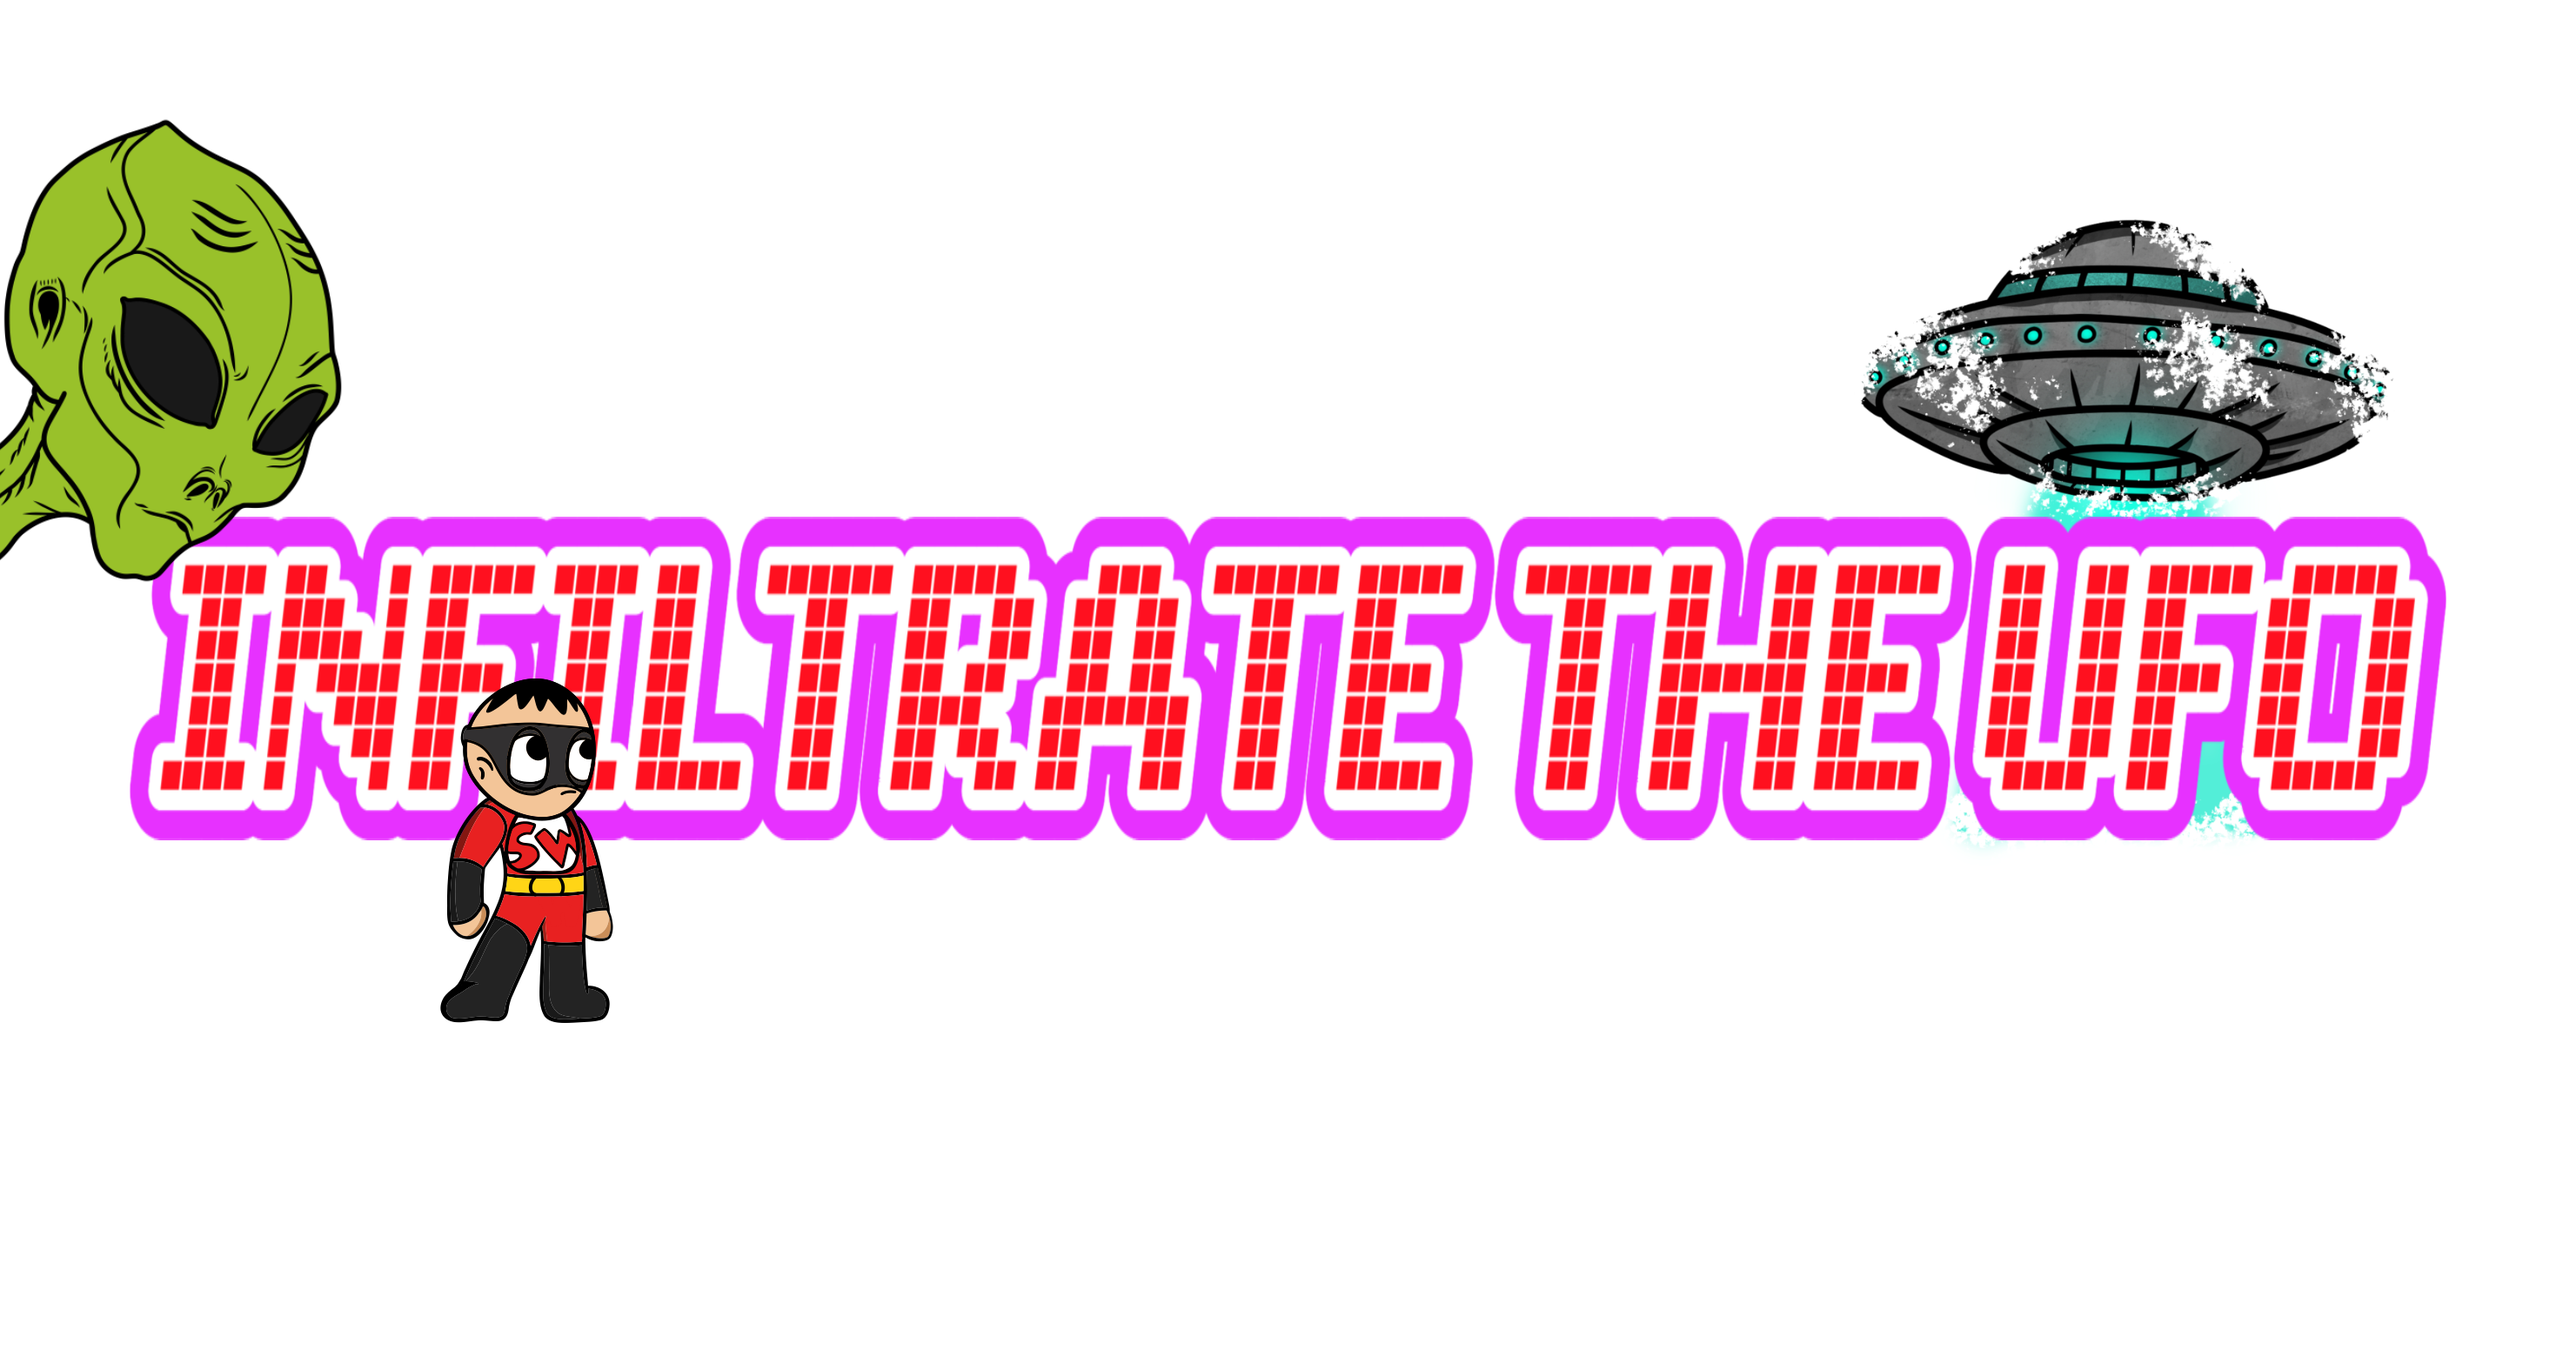
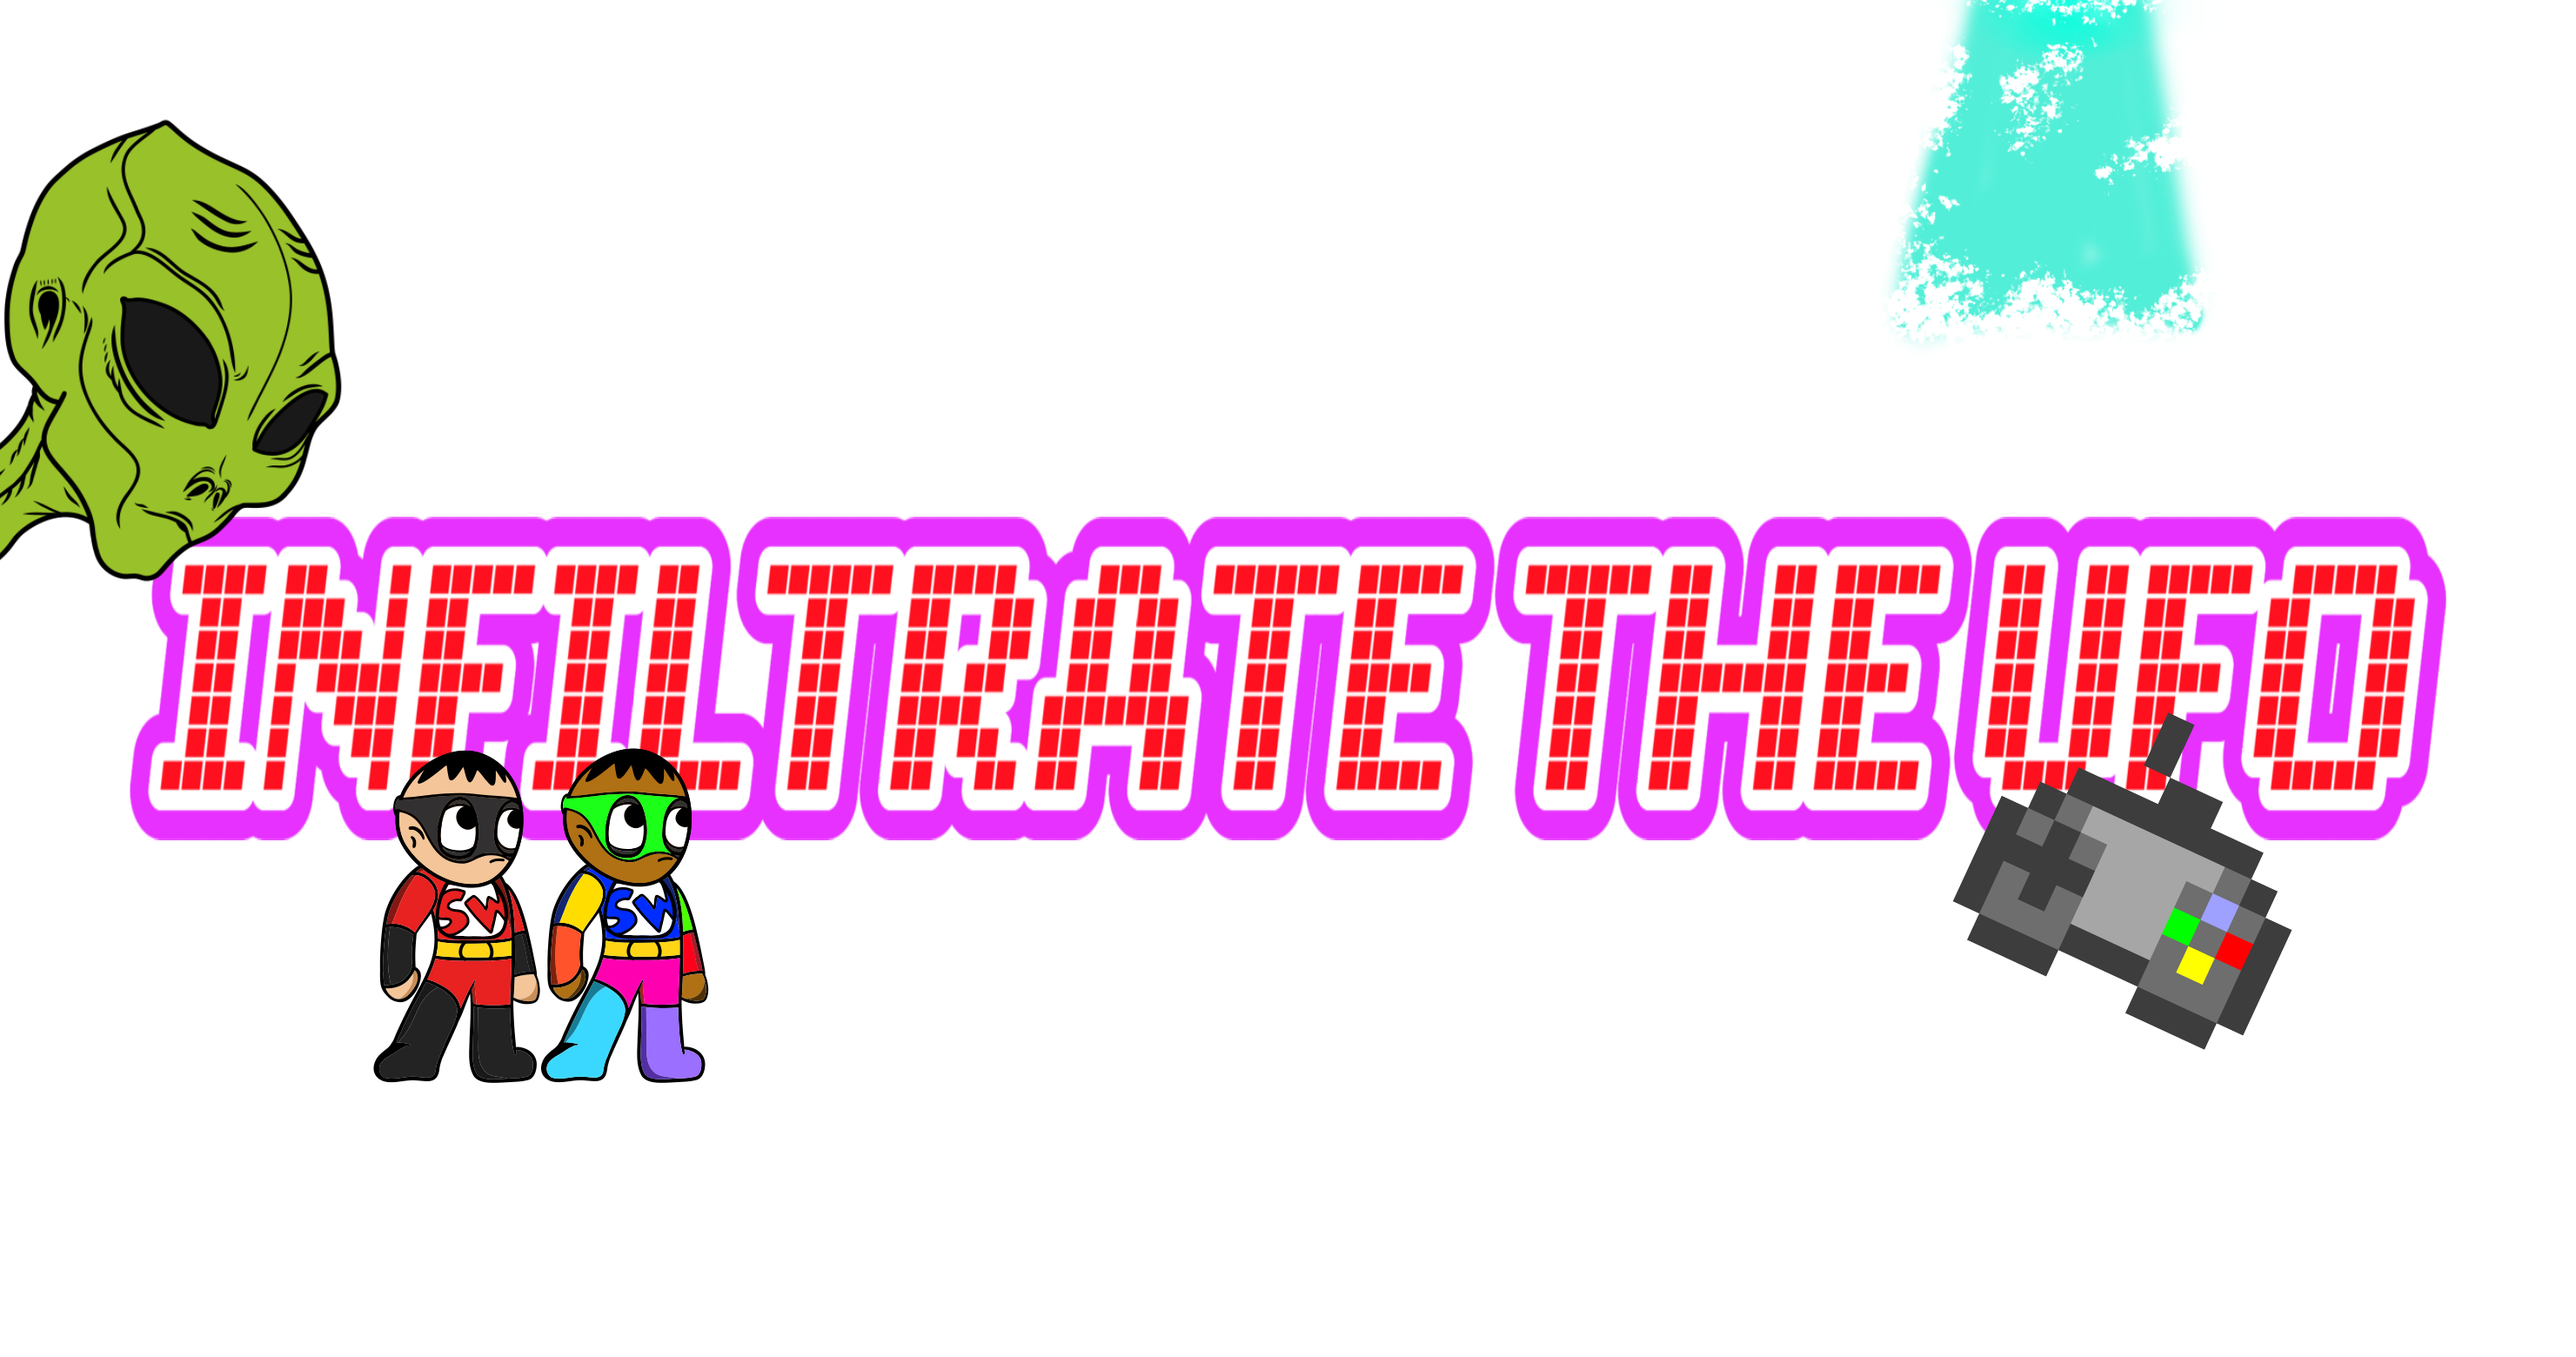
Updated Mainscreen image, win scenario and playerchange buttons

Changed region(s): [[0.7146, 0.0, 0.9321, 0.4], [0.1243, 0.4923, 0.2796, 0.8], [0.7457, 0.5231, 0.901, 0.7692]]

diff --git a/index.js b/index.js
@@ -212,7 +212,6 @@ function createImage(imageSrc) {
   image.src = imageSrc;
   return image;
 }
-// const image = new Image();
 const backgroundImage = createImage("./img/castletest.png");
 const platformImage = createImage("./img/Wooden_Platform.png");
 const platformImage2 = createImage("./img/Platform barrel.png");
@@ -565,7 +564,7 @@ function animate() {
       "Save King Desmond's Kingdom, avoid falling boulders and infiltrate the spacecraft! Take it slow when navigating through those moving cobblestones!";
   }
 
-  if (scrollOffsetY >= 4750) {
+  if (scrollOffsetY >= 4800) {
     console.log("You win!");
     keys.up.pressed = false;
     keys.left.pressed = false;

diff --git a/index.html b/index.html
@@ -66,11 +66,11 @@
                 /><br />
                 <div id="characterSelection" class="characterBoxes">
                   <img src="./img/Maskedhero.png" />
-                  <button id="submitNewPlayerName">Submit</button>
+                  <button id="submitNewPlayerName">Confirm</button>
                 </div>
                 <div id="characterSelection2" class="characterBoxes">
                   <img src="./img/Maskedhero2.png" />
-                  <button id="submitNewPlayerName2">Submit</button>
+                  <button id="submitNewPlayerName2">Confirm</button>
                 </div>
               </div>
             </div>
